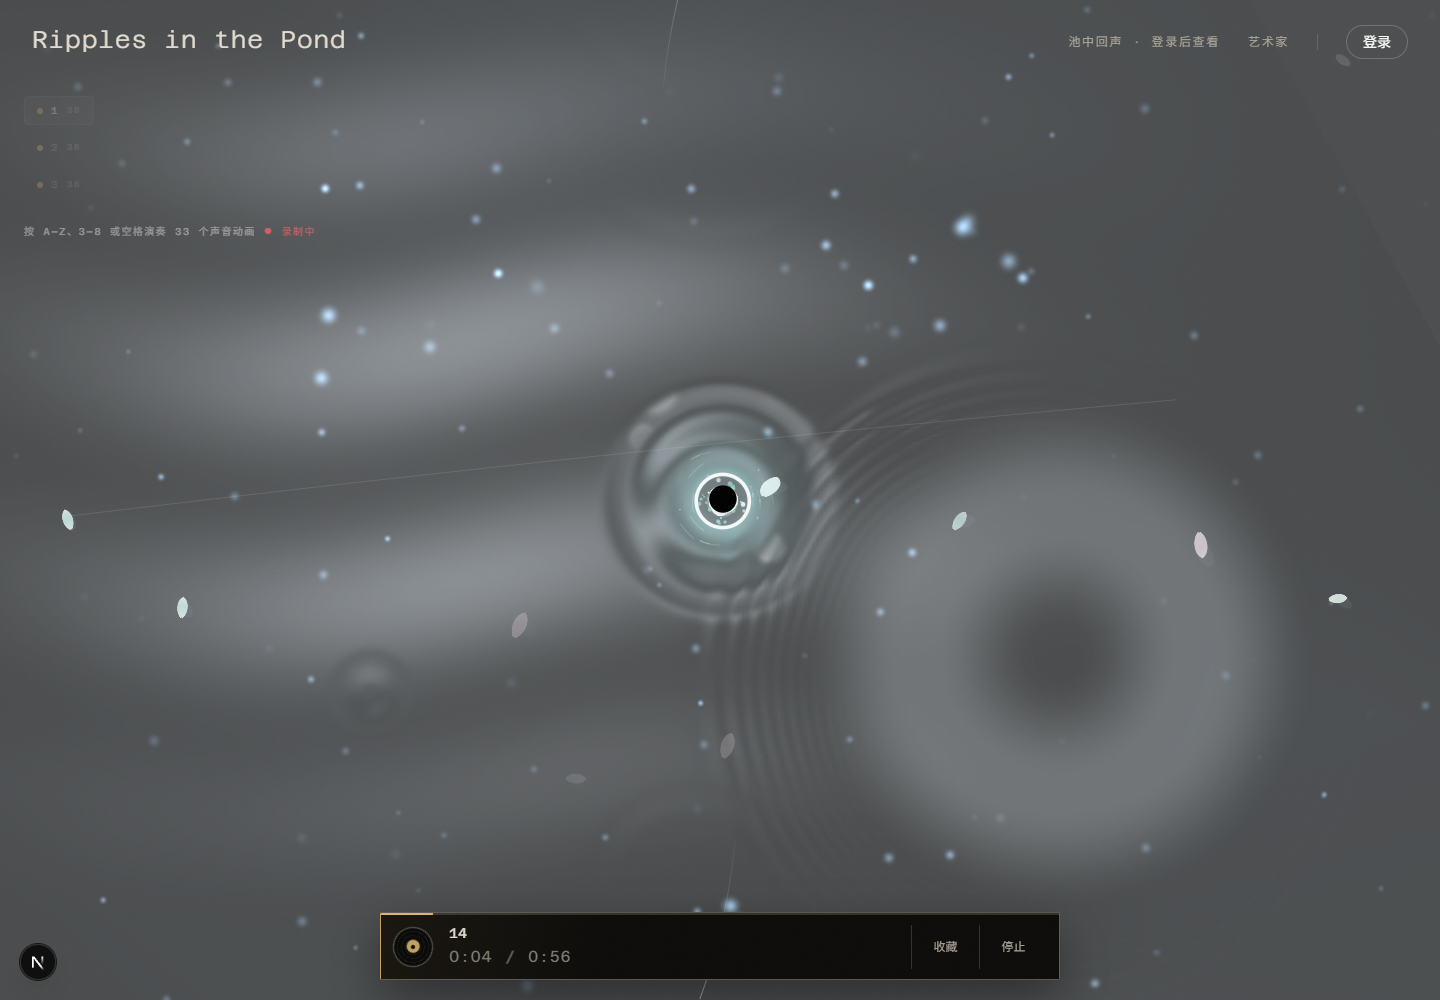
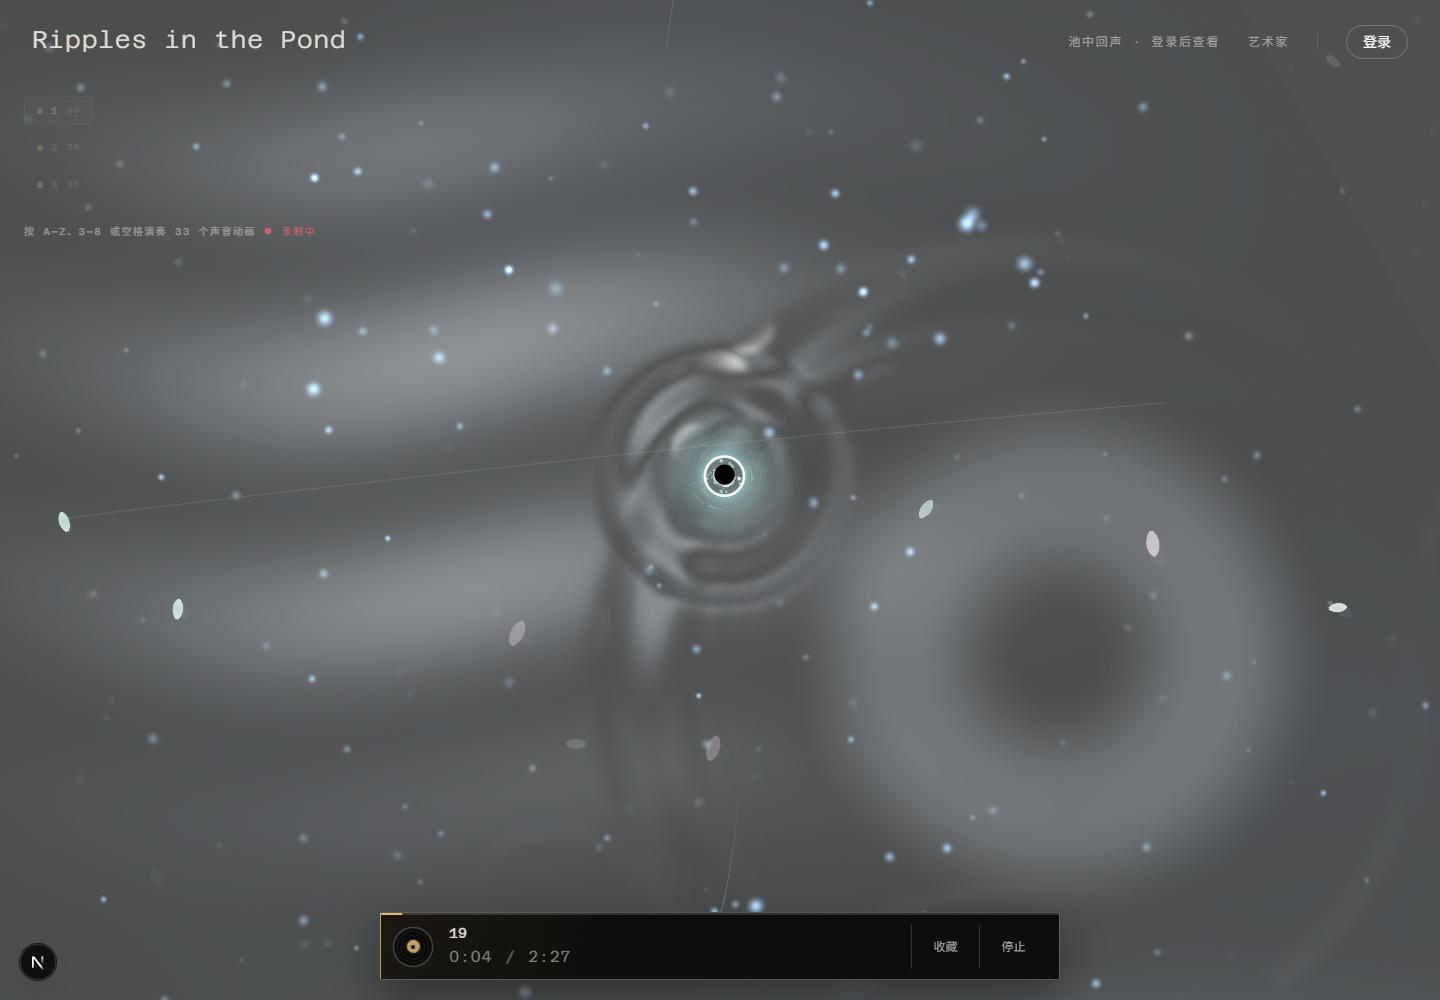
加固 P14 日食回归证据

diff --git a/scripts/p14/test-track36-visitor.ts b/scripts/p14/test-track36-visitor.ts
@@ -115,6 +115,17 @@ assert.ok(hitTargetSource.includes("!focus.active || ownFocus"),
   '只有正在播放的 ECHO 可在日食透明阶段保留停止入口');
 assert.ok(hitTargetSource.includes('document.activeElement === button) button.blur()'),
   '命中层隐藏时必须释放键盘焦点');
+const waterShaderSource = readFileSync(resolve(
+  process.cwd(), 'src/components/pond-gl-test3/water/water-distort-shaders.ts',
+), 'utf8');
+const waterSetupSource = readFileSync(resolve(
+  process.cwd(), 'src/components/pond-gl-test3/water/water-distort-setup.ts',
+), 'utf8');
+assert.ok(!waterShaderSource.includes('uScenePresence')
+  && !waterShaderSource.includes('uEclipseMix'),
+  '水波、高光与 P9 合成不得消费日食背景系数');
+assert.ok(waterSetupSource.includes('t.pondFloorStrength * (1 - eclipseMix)'),
+  '日食系数只能让程序化塘底花纹随黑色贴图退场');
 const echoPlaybackSource = readFileSync(resolve(
   process.cwd(), 'src/components/pond-gl-test3/visitor/useFeaturedEchoPlayback.ts',
 ), 'utf8');
@@ -137,7 +148,7 @@ async function verifyAudioOwnerRace(): Promise<void> {
 }
 
 void verifyAudioOwnerRace().then(() => {
-  console.log('P14-G Pond Echo #1 访客路径、焦点与音频 owner 竞态测试通过');
+  console.log('P14-G Pond Echo #1 访客路径、日食分层、焦点与音频 owner 竞态测试通过');
 }).catch((error: unknown) => {
   console.error(error);
   process.exitCode = 1;

diff --git a/reviews/evidence/p14-g6-track36/README.md b/reviews/evidence/p14-g6-track36/README.md
@@ -40,7 +40,7 @@ Edge 内建 MetaMask/Base Account 会输出 `MaxListenersExceededWarning`、`Obj
 
 用户纠正了 G5 的视觉合同：音乐圆继续按原方案消失，但水波不应退场；日食应把当前水底贴图丝滑换成黑色贴图，而不是让整个水塘共享一个透明度。候选实现已移除全局 `scenePresence`，改为背景专用 `eclipseMix`，并让音乐圆继续由 `PlaybackFocus` 独立退场。
 
-`browser-track36-smoke.mjs` 已在本地候选重新通过：20 次普通播放/停止、35 个非焦点音乐圆退场、ECHO 播放时 35 个普通圆退场、默认背景路径实际采样黑色 SVG 贴图、背景显著压暗、注入涟漪的局部帧差超过同区域自然动态、P9 事件 33/33 接受且 33 个效果 ID 唯一、同一 Canvas/WebGL context、375×844 与 fallback、0 console error。`smoke-desktop-eclipse-ripple.png` 是黑色贴图上涟漪仍活动的新增证据；`smoke-desktop-p9-33keys.png` 证明 P9 覆盖层未被日食背景系数压暗。
+`browser-track36-smoke.mjs` 已在本地候选重新通过：20 次普通播放/停止、35 个非焦点音乐圆退场、ECHO 播放时 35 个普通圆退场、默认背景路径实际采样黑色 SVG 贴图、背景显著压暗、黑底注入涟漪后局部帧差可测、P9 事件 33/33 接受且 33 个效果 ID 唯一、同一 Canvas/WebGL context、375×844 与 fallback、0 console error。定向源码合同同时断言 WaterDistort 最终合成不消费日食背景系数，只有塘底花纹随 `eclipseMix` 退场。`smoke-desktop-eclipse-ripple.png` 是黑色贴图上涟漪仍活动的新增证据；`smoke-desktop-p9-33keys.png` 证明 P9 覆盖层未被日食背景系数压暗。
 
 ## 脚本
 
